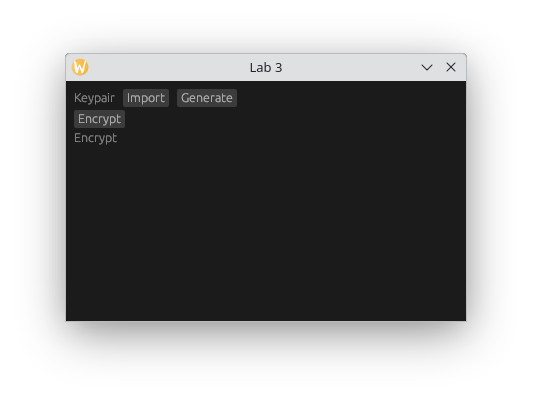
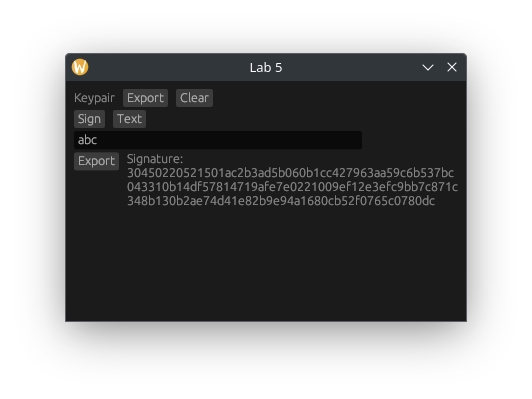
Upd.

Changed region(s): [[0.1203, 0.1203, 0.9023, 0.812]]

diff --git a/41SecurityOfProgramsAndData/lab5/lab5.tex b/41SecurityOfProgramsAndData/lab5/lab5.tex
@@ -33,10 +33,10 @@
 \newcommand\teacher{к.т.н., доцент кафедри ПЗ\\Сенів М.М.}
 \newcommand\mygroup{ПЗ-42}
 \newcommand\lab{5}
-\newcommand\theme{Створення програмної реалізації алгоритму шифрування з відкритим ключем rsa з використанням microsoft cryptoapi}
-\newcommand\purpose{Ознайомитись з методами і засобами криптографії з
-	відкритим ключем, навчитись створювати програмні засоби з використанням
-	криптографічних інтерфейсів}
+\newcommand\theme{Створення програмного засобу для цифрового підпису інформації з використанням microsoft cryptoapi}
+\newcommand\purpose{Ознайомитись з методами криптографічного забезпечення
+	цифрового підпису, навчитись створювати програмні засоби для цифрового
+	підпису з використанням криптографічних інтерфейсів}
 
 \begin{document}
 \begin{normalsize}
@@ -90,11 +90,14 @@
 	\end{description}
 
     \section*{Лабораторне завдання}
-З використання функцій CryptoAPI створити програмну реалізацію
-алгоритму шифрування RSA. Оцінити швидкість шифрування алгоритму RSA
-та порівняти її зі швидкістю шифрування алгоритму RC5, реалізованого в
-роботі № 3, зробити відповідні висновки та відобразити їх у звіті до
-лабораторної роботи.
+З використання функцій CryptoAPI створити прикладну програму для
+створення і перевірки цифрового підпису за стандартом DSS. Програмна
+реалізація повинна виводити значення підпису як для рядка, заданого в полі
+вводу, так і для файлу. Результат роботи програми повинен відображатись на
+екрані з можливістю наступного запису в файл. Крім того програма повинна
+мати можливість перевірити цифровий підпис будь-якого файлу за наявним
+файлом підпису, записаним у шістнадцятковому форматі. У звіті навести
+протокол роботи програми та зробити висновки.
     
 	\section*{Хід роботи}
 	
@@ -110,9 +113,9 @@
 	{\small	\lstinputlisting{src/main.rs}}
 	
 	\section*{Висновки}
-	Під час виконання лабораторної роботи я ознайомився з методами і засобами криптографії з
-	відкритим ключем, навчився створювати програмні засоби з використанням
-	криптографічних інтерфейсів.
+	Під час виконання лабораторної роботи я ознайомився з методами криптографічного забезпечення
+	цифрового підпису, навчитвся створювати програмні засоби для цифрового
+	підпису з використанням криптографічних інтерфейсів.
 	    
 \end{normalsize}
 \end{document}
